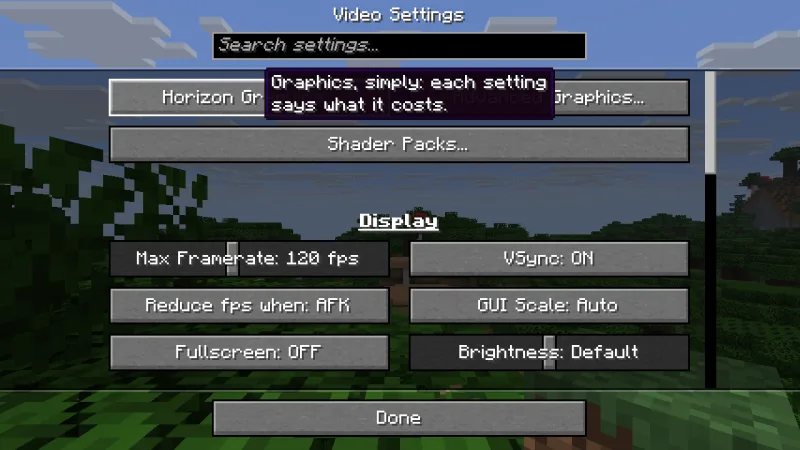
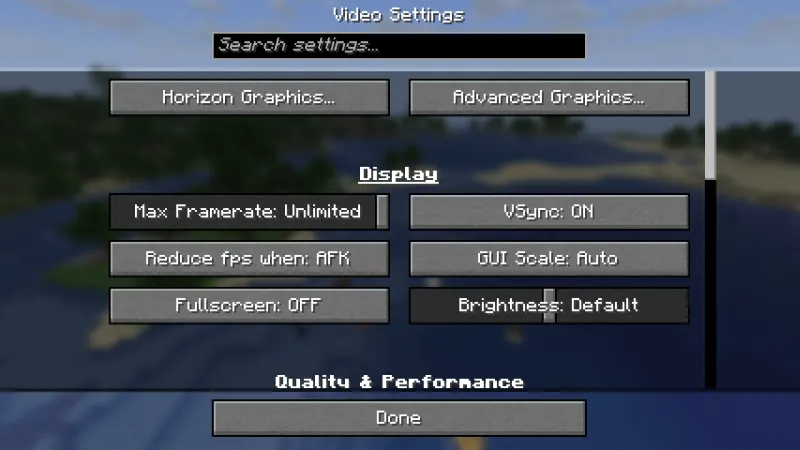
Remove shader packs
A developer of Iris showed that Horizon's shader pack code was written from
Iris's source. This removes it: the horizon-shaderpack crate, Java pack
loading and its render stages, Horizon's own WGSL packs and the example
packs, the Shader Packs screen and its option, the launcher's shader pack
browsing and installing, and the docs about them. Shader packs may come
back later as a clean-room rewrite.

The vanilla renderer and its post-processing (resolution scale, FXAA) are
unchanged. Options files that name a pack load and drop the key; the
launcher reads manifests that list a shader pack, and files in
`shaderpacks/` are never deleted.

diff --git a/src/index.html b/src/index.html
@@ -174,7 +174,7 @@
               <li class="row reveal"><span class="row-index" aria-hidden="true">02</span><h3>Updates on its own</h3><p>It looks for a new Horizon release when it starts and every four hours, and updates itself from the launcher's own releases.</p></li>
               <li class="row reveal"><span class="row-index" aria-hidden="true">03</span><h3>Client or server</h3><p>Start the client, or host a server from the Servers page: create it, start it, watch players and the console, change its settings and keep backups.</p></li>
               <li class="row reveal"><span class="row-index" aria-hidden="true">04</span><h3>Logs and crash reports</h3><p>The Settings page shows where the game's logs and crash reports are, and <code>horizon-launcher logs</code> prints them.</p></li>
-              <li class="row reveal"><span class="row-index" aria-hidden="true">05</span><h3>Modpacks and packs</h3><p>The Modpacks page reads a Modrinth or CurseForge pack and carries over the mods Horizon can run. The Mods page installs resource packs, shader packs and modpacks from Modrinth.</p></li>
+              <li class="row reveal"><span class="row-index" aria-hidden="true">05</span><h3>Modpacks and packs</h3><p>The Modpacks page reads a Modrinth or CurseForge pack and carries over the mods Horizon can run. The Mods page installs resource packs and modpacks from Modrinth.</p></li>
             </ul>
             <div class="launcher-actions reveal">
               <a class="button primary large" data-download href="https://github.com/ludovic111/horizon/releases?q=launcher-v&amp;expanded=true">Download the launcher</a>
@@ -190,7 +190,7 @@
             </div>
             <div class="screen">
               <div class="screen-panel is-active" role="tabpanel" id="screen-launcher" aria-labelledby="tab-launcher"><img loading="lazy" decoding="async" src="/media/launcher-800.webp" srcset="/media/launcher-800.webp 800w, /media/launcher.webp 1280w" sizes="(min-width: 1000px) 720px, 92vw" width="1280" height="800" alt="The launcher's Play page: the version, Client and Server, the version picker and Play, the prepared resources and the Minecraft folder as a numbered list"></div>
-              <div class="screen-panel" role="tabpanel" id="screen-settings" aria-labelledby="tab-settings"><img loading="lazy" decoding="async" src="/media/settings-800.webp" srcset="/media/settings-800.webp 800w, /media/settings.webp 1280w" sizes="(min-width: 1000px) 720px, 92vw" width="1280" height="720" alt="Vanilla's Video Settings screen with Horizon's own buttons at the top: Horizon Graphics, Advanced Graphics and Shader Packs"></div>
+              <div class="screen-panel" role="tabpanel" id="screen-settings" aria-labelledby="tab-settings"><img loading="lazy" decoding="async" src="/media/settings-800.webp" srcset="/media/settings-800.webp 800w, /media/settings.webp 1280w" sizes="(min-width: 1000px) 720px, 92vw" width="1280" height="720" alt="Vanilla's Video Settings screen with Horizon's own buttons at the top: Horizon Graphics and Advanced Graphics"></div>
             </div>
             <p class="screen-caption">The launcher, and Horizon's graphics settings in the game: vanilla's menus, with Horizon's pages added the way mods add theirs.</p>
           </div>

diff --git a/docs/settings.md b/docs/settings.md
@@ -1,8 +1,8 @@
 # Settings worth knowing
 
-Horizon plays like vanilla out of the box. This page covers the settings that are different or new: graphics, distant terrain, shader packs, resource packs, controllers and a few optional extras.
+Horizon plays like vanilla out of the box. This page covers the settings that are different or new: graphics, distant terrain, resource packs, controllers and a few optional extras.
 
-The game's menus are vanilla's. Horizon adds its own settings to vanilla's **Options** screen the way mods do: **Horizon Settings...** and **Mods...** take the last two buttons of the grid. **Horizon Settings** opens Graphics, Advanced Graphics, Shader Packs, Controller Settings, Extras and Mods, each a screen of vanilla's buttons and sliders. The graphics and shader pack buttons are also at the top of **Video Settings**, and Controller Settings at the bottom of **Controls**.
+The game's menus are vanilla's. Horizon adds its own settings to vanilla's **Options** screen the way mods do: **Horizon Settings...** and **Mods...** take the last two buttons of the grid. **Horizon Settings** opens Graphics, Advanced Graphics, Controller Settings, Extras and Mods, each a screen of vanilla's buttons and sliders. The graphics buttons are also at the top of **Video Settings**, and Controller Settings at the bottom of **Controls**.
 
 ![Video Settings, with Horizon's graphics buttons at the top](/media/settings-800.webp)
 
@@ -42,17 +42,13 @@ The change applies at the next start. If Vulkan gives you trouble, try DirectX 1
 
 ## Shader packs
 
-Shader packs are **experimental**. Put a pack's folder in the `shaderpacks` folder of the game folder (see [Install](/docs/install#first-launch) for where that is), then choose it in **Options, Video Settings, Shader Packs** (or **Options, Horizon Settings, Shader Packs**). With no pack selected the game draws exactly what vanilla draws. A pack that fails to load shows why in red and leaves the normal picture on.
-
-Horizon can run the full-screen effects of Java shader packs (OptiFine and Iris packs: colour grading, bloom, sky and fog effects). It does not run their geometry and shadow passes yet, so packs do not look as they do in Iris. Horizon also has its own shader pack format, in WGSL, with a `pack.toml` manifest, options and hot reload. It has full-screen passes too; stages that draw the world's terrain and shadows are planned. The details are in the [shader pack notes](https://github.com/ludovic111/horizon/blob/main/docs/shader-packs.md).
-
-The **Shader Packs** page shows the full path of the `shaderpacks` folder with an **Open Folder** button, then one switch per pack. Turning a pack on picks it, and turning it off gives the vanilla picture. Packs tested so far: BSL, Complementary Reimagined, Steadfast and Sildur's Vibrant Extreme draw their full-screen passes; Bliss, Bloop, Noble, Photon and Rethinking Voxels do not load yet. To find packs, the launcher's **Mods** page installs shader packs from Modrinth (see [Mods and data packs](/docs/mods#finding-resource-packs-shader-packs-and-modpacks)).
+Shader packs have been removed for now. They will come back later, written again from scratch. Packs in your `shaderpacks` folder are left where they are.
 
 ## Resource packs
 
 Java Edition resource packs work. Put the folder or `.zip` in the `resourcepacks` folder of the game folder and pick it on the **Resource Packs** screen, which is vanilla's screen. The game reloads every loader from the pack, as vanilla does.
 
-The launcher's **Mods** page can download them from Modrinth (see [Mods and data packs](/docs/mods#finding-resource-packs-shader-packs-and-modpacks)).
+The launcher's **Mods** page can download them from Modrinth (see [Mods and data packs](/docs/mods#finding-resource-packs-and-modpacks)).
 
 [Resource packs: what works](https://github.com/ludovic111/horizon/blob/main/docs/resource-packs.md) lists everything a 26.3 resource pack can change and whether Horizon honours it.
 

diff --git a/docs/mods.md b/docs/mods.md
@@ -6,7 +6,7 @@ Horizon has its own mod system, written for Horizon and not compatible with Java
 
 Horizon mods are written in Rust, compiled to WebAssembly and run in a sandbox. A mod can only do what it asks for and you allow, and a mod that crashes is switched off without taking the game down.
 
-> **Early.** The mod system is new. There is no store for Horizon mods yet: they are files to put in a folder. The launcher's **Mods** page (see below) finds resource packs, shader packs and modpacks, not `.hmod` mods.
+> **Early.** The mod system is new. There is no store for Horizon mods yet: they are files to put in a folder. The launcher's **Mods** page (see below) finds resource packs and modpacks, not `.hmod` mods.
 
 **Playing with mods**
 
@@ -32,9 +32,9 @@ cargo horizon-mod run
 
 `run` builds the mod and starts the game with it. After an edit, `cargo horizon-mod build` rebuilds it and the running game reloads it. The full guide, with the API, the manifest and the roadmap, is [docs/mods.md](https://github.com/ludovic111/horizon/blob/main/docs/mods.md). What carries over from Java mods, and why jars cannot run, is in [the Java mod notes](https://github.com/ludovic111/horizon/blob/main/docs/research/java-mod-compat.md).
 
-## Finding resource packs, shader packs and modpacks
+## Finding resource packs and modpacks
 
-The launcher's **Mods** page (launcher 0.17 and newer) searches [Modrinth](https://modrinth.com) for what Horizon can load: resource packs, Java shader packs and modpacks. Each result says how well it runs in Horizon (**Works**, **Partly**, or **Doesn't run**), and by default the page shows only what runs. **Install** downloads the file, checks it against the checksum Modrinth lists and refuses anything that does not match, then puts it in the right folder, with the packs it needs. **Update** and **Remove** are there too. A resource pack still has to be turned on in the game's Resource Packs screen, and a shader pack in Video, Shader Packs. A modpack is imported on the [Modpacks page](/docs/modpacks).
+The launcher's **Mods** page (launcher 0.17 and newer) searches [Modrinth](https://modrinth.com) for what Horizon can load: resource packs and modpacks. Each result says how well it runs in Horizon (**Works**, **Partly**, or **Doesn't run**), and by default the page shows only what runs. **Install** downloads the file, checks it against the checksum Modrinth lists and refuses anything that does not match, then puts it in the right folder, with the packs it needs. **Update** and **Remove** are there too. A resource pack still has to be turned on in the game's Resource Packs screen. A modpack is imported on the [Modpacks page](/docs/modpacks).
 
 CurseForge support is coming soon: the page shows it, but doesn't search it yet. The same things work from a terminal: `horizon-launcher mods search`, `install`, `update` and `remove`.
 

diff --git a/docs/modpacks.md b/docs/modpacks.md
@@ -8,7 +8,7 @@ Java mod jars do not run in Horizon. Instead, the launcher reads a modpack, tell
 
 Open **Modpacks** in the launcher. (From the next launcher release, it is the **Modpacks** tab of the **Mods** page.)
 
-1. **Import a pack.** Choose **Import a pack file…** for a Modrinth `.mrpack` or a CurseForge zip, or **Import an instance folder…** for a Prism, MultiMC or CurseForge instance. The **Mods** page can also find a Modrinth modpack and import it for you (see [Mods and data packs](/docs/mods#finding-resource-packs-shader-packs-and-modpacks)). From the next launcher release it also ports it in the same step, so you can press **Play** right away.
+1. **Import a pack.** Choose **Import a pack file…** for a Modrinth `.mrpack` or a CurseForge zip, or **Import an instance folder…** for a Prism, MultiMC or CurseForge instance. The **Mods** page can also find a Modrinth modpack and import it for you (see [Mods and data packs](/docs/mods#finding-resource-packs-and-modpacks)). From the next launcher release it also ports it in the same step, so you can press **Play** right away.
 2. **Read the coverage report.** For every mod in the pack it says **Ported**, **Partial**, **Not yet** or **Not needed**, with the reason. You can filter the list by status.
 3. **Port.** **Port N mods** gets the jars of the mods this computer can carry over today, and carries them over for the version you picked. It copies the jars from a folder you have, or downloads them from the pack's own links (or the same file from Modrinth's download network), and checks their hashes. CurseForge downloads are coming soon, so for files that only CurseForge has, choose **Use jars from my instance…** and point it at your installed instance.
 4. **Play.** **Play with N mods** starts the game as the pack's own profile, with its own saves and options, and those mods on.

diff --git a/docs/agents.md b/docs/agents.md
@@ -10,7 +10,7 @@ Everything you can do with the mouse and keyboard, through commands instead of c
   - install, remove and prepare versions;
   - start the game, alone or with a world, or a server;
   - your settings and the extra game arguments;
-  - the mod browser (mods, resource packs, shader packs, modpacks), imported modpacks and hosted servers;
+  - the mod browser (mods, resource packs, modpacks), imported modpacks and hosted servers;
   - your accounts (names only), logs and crash reports, patch notes, the data collection settings and the benchmark.
 - **In the game:**
   - read what is on screen (every button, slider, field and slot, by name), click and type;
@@ -94,7 +94,7 @@ The same commands, for scripts and terminals. `--json` prints JSON.
 - Install the newest: `horizon-launcher install latest`
 - Play a world: `horizon-launcher play --world "My world"`
 - Change a setting: `horizon-launcher settings install-new-versions on`
-- Find a shader pack: `horizon-launcher mods search --kind shader sildurs`
+- Find a resource pack: `horizon-launcher mods search --kind resource faithful`
 - Read the game's log: `horizon-launcher logs`
 - Turn No AI on: `horizon-launcher no-ai on`
 - Start a game agents control: `horizon-ctl launch --world Test`

diff --git a/docs/troubleshooting.md b/docs/troubleshooting.md
@@ -32,7 +32,7 @@ The launcher's **Settings** page has a **Logs** row with an **Open** button. On 
 - **"Not prepared" or "Minecraft 26.3 was not found".** Play 26.3 once in the official Minecraft launcher, or point the launcher at your Minecraft folder (**Choose…** next to Minecraft folder on the Play page), then choose **Prepare** again.
 - **Preparation says Java 25 is needed.** Update the launcher: it then uses the Java the Minecraft launcher downloaded for 26.3, or downloads it from Mojang. If it still can't (no internet, say), install a Java 25 JDK, for example Eclipse Temurin 25.
 - **Slow or stuttering.** Lower the render distance, turn LOD off, or pick the **Performance** preset. The performance overlay (Video, Advanced, Overlay) shows what is slow.
-- **A resource or shader pack broke something.** Switch it off, or take it out of its folder.
+- **A resource pack broke something.** Switch it off, or take it out of its folder.
 
 ## Reporting a bug
 

diff --git a/docs/contributing.md b/docs/contributing.md
@@ -8,7 +8,7 @@ Questions and ideas are welcome on [Discord](https://discord.gg/HcTeMZxe5E). Bug
 
 [github.com/ludovic111/horizon](https://github.com/ludovic111/horizon) holds the game, the launcher and this website, plus the tools, tests and docs that build, check and release them.
 
-- `crates/` is the game, as Rust crates: the client, the server, the world and protocol code, the mod system, the shader pack reader, the design tokens and more.
+- `crates/` is the game, as Rust crates: the client, the server, the world and protocol code, the mod system, the design tokens and more.
 - `launcher/` is the launcher, a GPUI app with its own Cargo workspace.
 - `website/` is this site and its documentation, in `website/docs/`.
 - `tools/` holds the parity harness drivers, the parity runner, the release tools and the self-check.

diff --git a/LEGAL.md b/LEGAL.md
@@ -56,7 +56,7 @@ by `scripts/assets.mjs`.
 | Files in `public/media/` | Source | What it shows |
 | --- | --- | --- |
 | `launcher*.webp` | `docs/media/launcher-play.png` | The Horizon launcher's Play page (no background image) |
-| `settings*.webp` | `docs/media/settings-simple.png` | Video Settings, with Horizon's graphics and shader pack buttons at the top |
+| `settings*.webp` | `docs/media/settings-simple.png` | Video Settings, with Horizon's graphics buttons at the top |
 | `sunset*.webp`, `village*.webp`, `survival*.webp`, `nether*.webp`, `night*.webp`, `underwater*.webp` | `docs/media/<name>.jpg` | In-game views of one fixed-seed world; none shows a Mojang logo or splash text |
 
 Horizon's interface in these images is Horizon's original work (MIT). The block, mob and

diff --git a/docs/faq.md b/docs/faq.md
@@ -52,7 +52,7 @@ Linux x86-64, macOS on Apple Silicon and Windows x64. See [supported systems](/d
 
 ## Are shader packs supported?
 
-In part. Horizon runs the full-screen effects of Java shader packs, not their geometry and shadow passes yet. See [Settings](/docs/settings#shader-packs).
+Not right now. They have been removed, and will come back later, written again from scratch. See [Settings](/docs/settings#shader-packs).
 
 ## Does Horizon collect data?
 
